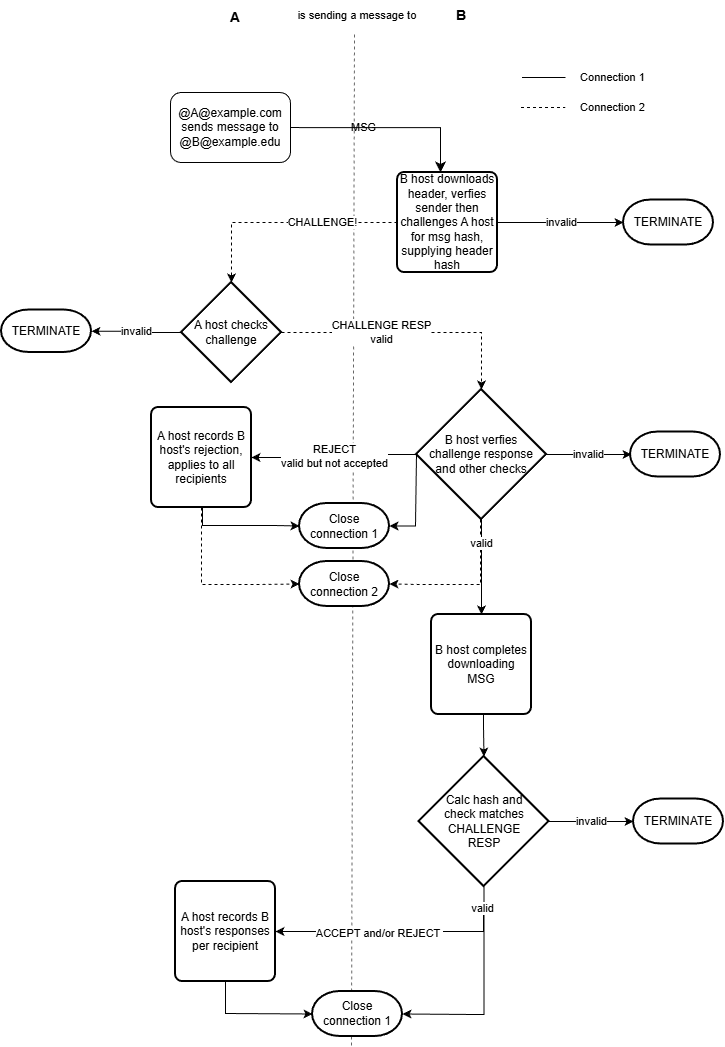
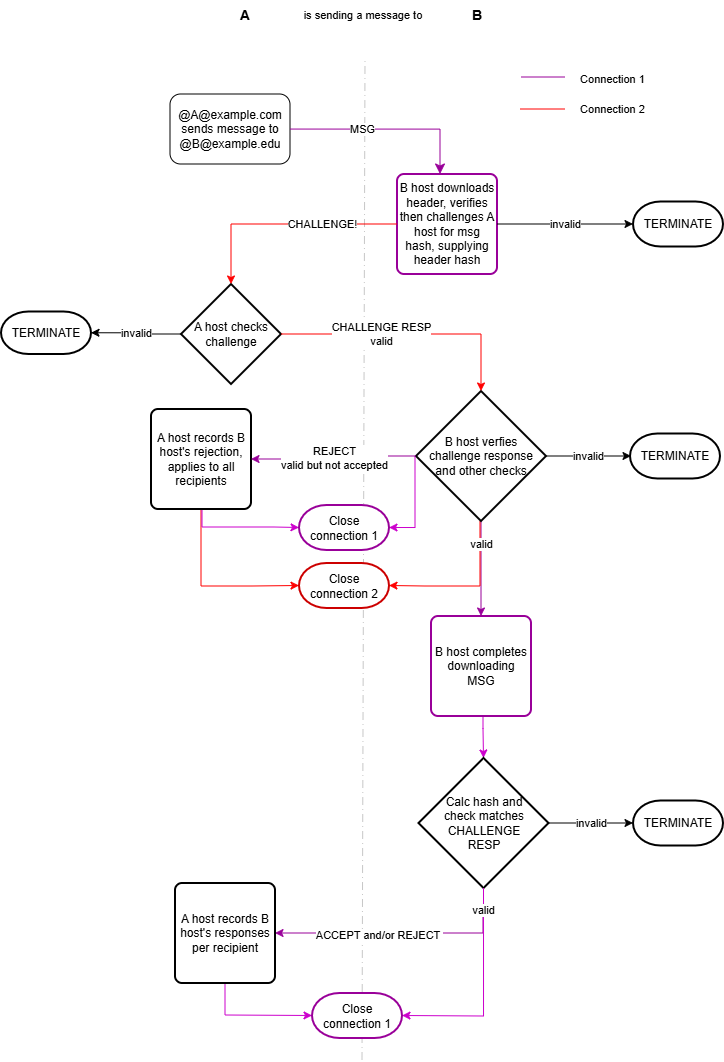
various tweaks

diff --git a/SPECIFICATION.md b/SPECIFICATION.md
@@ -29,7 +29,9 @@ _"fmsg"_ is the name given to the protocol and message definitions described in 
 
 ### Terms
 
-_"address"_ an fmsg address in the form @user@example.com, see: [Address](#address).
+_"address"_ an fmsg address in the form `@user@example.com`, see: [Address](#address).
+
+_"case-insensitive"_ byte-wise equality comparison after applying Unicode default case folding (locale-independent) to both UTF-8 strings
 
 _"DNS"_ is for the Domain Name System.
 
@@ -43,13 +45,13 @@ _"message header"_ refers to the fields up to and including the attachment heade
 
 _"message header hash"_ the SHA-256 digest of a message header.
 
-_"participants"_ all receipients plus the sender
+_"participants"_ all recipients plus the sender
 
-_"receipients"_ the set of all addresses in a message's _to_ and _add to_ fields
+_"recipients"_ the set of all addresses in a message's _to_ and _add to_ fields
 
 _"sender"_ the address in a message's _from_ field
 
-_"thread"_ is a linked heirarchy of messages where messages relate to previous messages using the pid field
+_"thread"_ is a linked heirarchy of messages where messages relate to previous messages using the _pid_ field
 
 _"UTF-8"_ is for the unicode standard: Unicode Transformation Format – 8-bit.
 
@@ -88,15 +90,13 @@ In programmer friendly JSON a message could look like (once decoded from the bin
 ```JSON
 {
     "version": 1,
-    "flags": {
-        "important": false,
-        "noreply": false,
-    }
+    "important": false,
+    "noreply": false,
     "pid": null,
-    "from": "@markmnl@fmsg.io",
+    "from": "@user@example.com",
     "to": [
         "@世界@example.com",
-        "@chris@fmsg.io"
+        "@chris@example.edu"
     ],
     "add_to": [],
     "time": 1654503265.679954,
@@ -336,11 +336,13 @@ A code less than 100 indicates rejection for all recipients and will be the only
 A message is sent from the sender's host to each unique recipient host (i.e. each domain only once even if multiple recipients with the same domain). Sending a message either wholly succeeds or fails per recipient. During the sending from one host to another several steps are performed depicted in the below diagram. 
 Two connection-orientated, reliable, in-order and duplex transports are required to perform the full flow. Transmission Control Protocol (TCP) is an obvious choice, on top of which Transport Layer Security (TLS) may meet your encryption needs.
 
+<p align="center">
 <picture>
   <source media="(prefers-color-scheme: dark)" srcset="pics/flow-dark.png">
   <source media="(prefers-color-scheme: light)" srcset="pics/flow-light.png">
   <img alt="fmsg protocol flow diagram" src="pics/flow-dark.png">
 </picture>
+</p>
 
 *Protocol flow diagram*
 
@@ -362,54 +364,58 @@ CHALLENGE_MODE
 TODO what if same address in from, to, add to?
 
 #### 1. Connection and Header Exchange
-    1. The Sending Host (Host A) initiates a connection (Connection 1) to a Receiving Host (Host B) authorised IP address determined by [Domain Resolution](#domain-resolution).
-        1. If the remote host is un-repsonsive after a reasonable timeout and other IP addresses were listed, they SHOULD each be tried one at a time until a responsive host is found.
-    2. Host A starts transmiting the message to Host B.
-    3. Host B downloads the first byte 
-        1. If the value is less than 128 and a supported fmsg version, continue.
-        2. If the value is greater then 128 and 256 minus the value is a supported fmsg version - this is an incoming CHALLENGE and should be processed per [Handling a Challenge](#handling-a-challenge).
-        3. Otherwise send REJECT code 2 (unsupported version) then close the connection completing the message exchange.
-    4. Host B downloads the remaining message header, parses it then performs the following verification steps in order:
-        1. If parsing fails because types cannot be decoded, receiving host MUST TERMINATE the message exchange.
-        2. Receiving Host B MUST perform a DNS lookup on the _fmsg subdomain of the from address in the message header (_fmsg.example.com) to verify that the IP address of the incoming connection is in those authorised by the sending domain. If the incoming IP address is not in the authorised set, Host B MUST TERMINATE the message exchange.
-        2. If _size_ plus all _attachment size_ is greater than MAX_SIZE, Host B MUST respond REJECT code 4 (too big) then close the connection completing the message exchange.
-        3. The _time_ field is subtracted by the current POSIX epoch time resulting DELTA representing seconds difference between when the message was recieved for sending by an fmsg host for the sender.
-            1. If DELTA is greater than MAX_MESSAGE_AGE, Host B MUST respond REJECT code 4 (too big) then close the connection completing the message exchange.
-            2. If DELTA is negative and ABS(DELTA) is greater than MAX_TIME_SKEW, Host B MUST respond REJECT code 8 (future time) then close the connection completing the message exchange.
-        4. The _pid_ field requirements depends on the existance and contents of _add to_ field:
-            1. If neither _pid_ nor _add to_ exist, the message must be the first in a thread and the message exchange continues normally.
-            2. If _add to_ exists:
-                1. _pid_ field MUST exist too, otherwise Host B MUST respond REJECT code 1 (invalid) and close the connection completing the message exchange.
-                2. If any of the recipients in _add to_ are for Host B (i.e. example.edu domain), then the message exchange continues normally except message refered to by _pid_ does NOT have to be be already stored.
-                3. else if none of the recipients in _add to_ are for Host B (i.e. example.edu domain), then:
-                    1. The message _pid_ refers to MUST be verfied to be stored already on Host B per (Verifying Message Stored)[#verifying-message-stored]; otherwise respond with REJECT code 6 (parent not found)
-                    2. At least one of the recipients in _to_ MUST be for Host B (i.e. example.edu domain); otherwise Host B MUST respond with REJECT code 1 (invalid) and close the connection completing the message exchange.
-                    3. At this stage we have been informed additional recipients have been added to a message we already have, there will be no further data. Host B MUST record this message header received so far such that the message header hash can be faithfully computed as this could be referred to by subsequent messages. Host B MUST then respond with ACCEPT code 201 (message header received) then close the connection completing the message exchange. 
-            3. Else _pid_ exists and _add to_ does not, the message _pid_ refers to MUST be verfied to be stored already on Host B per (Verifying Message Stored)[#verifying-message-stored]; otherwise respond with REJECT code 6 (parent not found)
+
+1. The Sending Host (Host A) initiates a connection (Connection 1) to a Receiving Host (Host B) authorised IP address determined by [Domain Resolution](#domain-resolution).
+    1. If the remote host is un-repsonsive after a reasonable timeout and other IP addresses were listed, they SHOULD each be tried one at a time until a responsive host is found.
+2. Host A starts transmiting the message to Host B.
+3. Host B downloads the first byte 
+    1. If the value is less than 128 and a supported fmsg version, continue.
+    2. If the value is greater then 128 and 256 minus the value is a supported fmsg version - this is an incoming CHALLENGE and should be processed per [Handling a Challenge](#handling-a-challenge).
+    3. Otherwise send REJECT code 2 (unsupported version) then close the connection completing the message exchange.
+4. Host B downloads the remaining message header, parses it then performs the following verification steps in order:
+    1. If parsing fails because types cannot be decoded, receiving host MUST TERMINATE the message exchange.
+    2. Receiving Host B MUST perform a DNS lookup on the _fmsg subdomain of the from address in the message header (_fmsg.example.com) to verify that the IP address of the incoming connection is in those authorised by the sending domain. If the incoming IP address is not in the authorised set, Host B MUST TERMINATE the message exchange.
+    2. If _size_ plus all _attachment size_ is greater than MAX_SIZE, Host B MUST respond REJECT code 4 (too big) then close the connection completing the message exchange.
+    3. The _time_ field is subtracted by the current POSIX epoch time resulting DELTA representing seconds difference between when the message was recieved for sending by an fmsg host for the sender.
+        1. If DELTA is greater than MAX_MESSAGE_AGE, Host B MUST respond REJECT code 4 (too big) then close the connection completing the message exchange.
+        2. If DELTA is negative and ABS(DELTA) is greater than MAX_TIME_SKEW, Host B MUST respond REJECT code 8 (future time) then close the connection completing the message exchange.
+    4. The _pid_ field requirements depends on the existance and contents of _add to_ field:
+        1. If neither _pid_ nor _add to_ exist, the message must be the first in a thread and the message exchange continues normally.
+        2. If _add to_ exists:
+            1. _pid_ field MUST exist too, otherwise Host B MUST respond REJECT code 1 (invalid) and close the connection completing the message exchange.
+            2. If any of the recipients in _add to_ are for Host B (i.e. example.edu domain), then the message exchange continues normally except message refered to by _pid_ does NOT have to be be already stored.
+            3. else if none of the recipients in _add to_ are for Host B (i.e. example.edu domain), then:
+                1. The message _pid_ refers to MUST be verfied to be stored already on Host B per (Verifying Message Stored)[#verifying-message-stored]; otherwise respond with REJECT code 6 (parent not found)
+                2. At least one of the recipients in _to_ MUST be for Host B (i.e. example.edu domain); otherwise Host B MUST respond with REJECT code 1 (invalid) and close the connection completing the message exchange.
+                3. At this stage we have been informed additional recipients have been added to a message we already have, there will be no further data. Host B MUST record this message header received so far such that the message header hash can be faithfully computed as this could be referred to by subsequent messages. Host B MUST then respond with ACCEPT code 201 (message header received) then close the connection completing the message exchange. 
+        3. Else _pid_ exists and _add to_ does not, the message _pid_ refers to MUST be verfied to be stored already on Host B per (Verifying Message Stored)[#verifying-message-stored]; otherwise respond with REJECT code 6 (parent not found)
         
 
 #### 2. The Automatic Challenge
-    TODO determine if challenge neccessary depending on CHALLENGE_MODE
-    1. Before continuing to download the remaining data on Connection 1, Host B MUST initiate a separate new connection (Connection 2) back to Host A using the same incoming IP address of Connection 1.
-    2. Host B sends a CHALLENGE to Host A, supplying the hash of the message header received in Connection 1.
-    3. Host A MUST verify the authenticity of the challenge by checking the header hash matches a message currently being sent to Host B. 
-        - If not matched then Host A MUST TERMiNATE the message exchange.
-    4. Host A transmits a CHALLENGE RESP on Connection 2 consisting of the SHA-256 hash of the entire message.
+
+TODO determine if challenge neccessary depending on CHALLENGE_MODE
+1. Before continuing to download the remaining data on Connection 1, Host B MUST initiate a separate new connection (Connection 2) back to Host A using the same incoming IP address of Connection 1.
+2. Host B sends a CHALLENGE to Host A, supplying the hash of the message header received in Connection 1.
+3. Host A MUST verify the authenticity of the challenge by checking the header hash matches a message currently being sent to Host B. 
+    - If not matched then Host A MUST TERMiNATE the message exchange.
+4. Host A transmits a CHALLENGE RESP on Connection 2 consisting of the SHA-256 hash of the entire message.
 
 #### 3. Reject or Continue
-    1. Host B downloads and checks the CHALLENGE RESP then either rejects the entire message outright; or continues to download the message on Connection 1. A REJECT response at this stage allows the receiving host a chance to reject the message before continuing the download for any reason e.g. the message is too big.
-        * REJECT MUST apply to all recipients belonging to Host B, i.e. "REJECT or ACCEPT RESPONSE" code must be less than 100, see: [Reject or Accept Response](#reject-or-accept-response).
-        * REJECT MUST be sent on Connection 1.
-        * REJECT, if sent, MUST immediately be followed by closure of Connection 1.
-    2. Connection 2 MUST be closed, if REJECT was sent the message exchange is completed.
-    3. If not rejected, the message transmission continues on Connection 1. Host B completes the download of the full remaining message, i.e. message size plus the sum of any attachment sizes.
+
+1. Host B downloads and checks the CHALLENGE RESP then either rejects the entire message outright; or continues to download the message on Connection 1. A REJECT response at this stage allows the receiving host a chance to reject the message before continuing the download for any reason e.g. the message is too big.
+    * REJECT MUST apply to all recipients belonging to Host B, i.e. "REJECT or ACCEPT RESPONSE" code must be less than 100, see: [Reject or Accept Response](#reject-or-accept-response).
+    * REJECT MUST be sent on Connection 1.
+    * REJECT, if sent, MUST immediately be followed by closure of Connection 1.
+2. Connection 2 MUST be closed, if REJECT was sent the message exchange is completed.
+3. If not rejected, the message transmission continues on Connection 1. Host B completes the download of the full remaining message, i.e. message size plus the sum of any attachment sizes.
 
 #### 4. Integrity Verification, Per-recipient Response and Disposition
-    1. Host B MUST perform a message integrity check by calculating the SHA-256 hash of the fully downloaded message including header, data and any attachments; then compare this calculated hash against the hash provided in the CHALLENGE RESP earlier.
-        * If hashes do not match Host B MUST TERMiNATE the message exchange.
-    2. If the hashes match, Host B transmits an "ACCEPT or REJECT RESPONSE" code to Host A for each individual recipient belonging Host B.
-    3. Host A MUST record the "ACCEPT or REJECT RESPONSE" per recipient.
-    4. Host A and Host B gracefully close Connection 1, completing the message exchange.
+
+1. Host B MUST perform a message integrity check by calculating the SHA-256 hash of the fully downloaded message including header, data and any attachments; then compare this calculated hash against the hash provided in the CHALLENGE RESP earlier.
+    * If hashes do not match Host B MUST TERMiNATE the message exchange.
+2. If the hashes match, Host B transmits an "ACCEPT or REJECT RESPONSE" code to Host A for each individual recipient belonging Host B.
+3. Host A MUST record the "ACCEPT or REJECT RESPONSE" per recipient.
+4. Host A and Host B gracefully close Connection 1, completing the message exchange.
 
 
 ### Handling a Challenge
